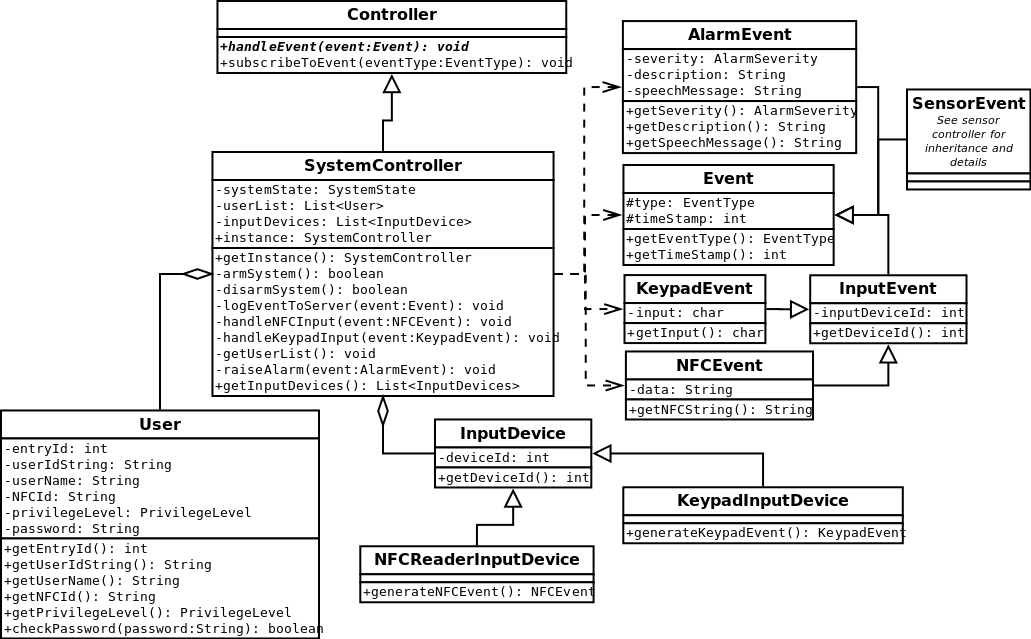
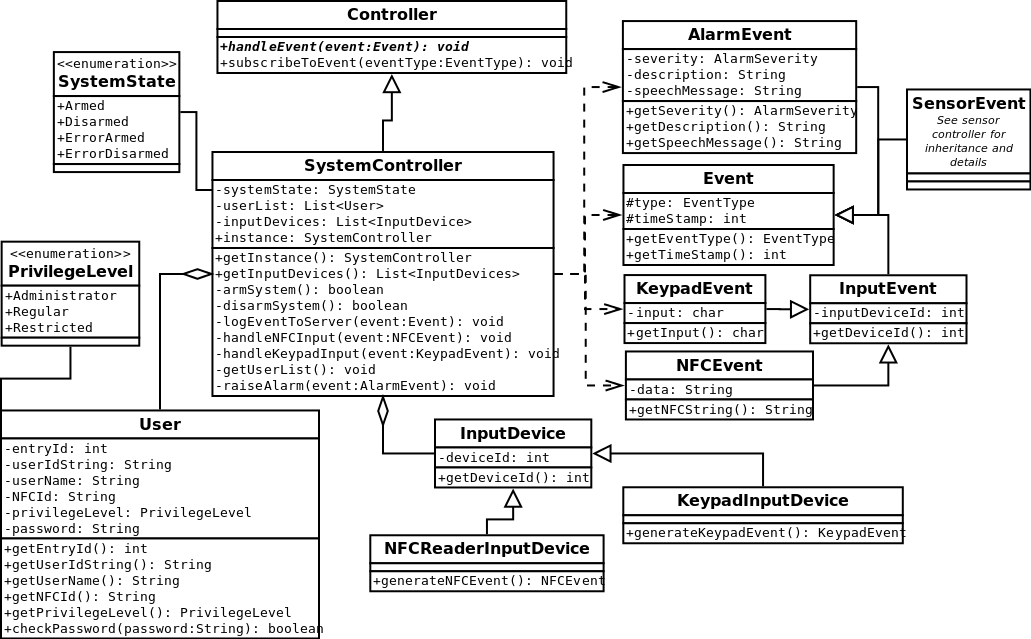
more object model blurbs

diff --git a/sdd/sdd.tex b/sdd/sdd.tex
@@ -360,14 +360,14 @@ instantated as singletons. Each controller is derived from the same super class
 that provides the abstract method for handling events and the
 implementation for subscribing to events with the event manager.
 
-The class diagram for the first controller, the SensorController, and the
-sensors are shown in Figure~\ref{fig:sensor_controller_class_diagram}. This
-diagram also describes the EventType enumeration which is omitted from the
-other diagrams for brevity The SensorController aggregates a list of sensors,
-which is fetched from the EventManager. This controller can explictely poll
-sensors, handle the sensor input data, and check the sensor statuses. It sends 
-events to the other controllers through the event manager after deciding how an
-event should be handled. 
+The class diagram for the first controller, the \texttt{SensorController}, and
+the sensors are shown in Figure~\ref{fig:sensor_controller_class_diagram}. This
+diagram also describes the \texttt{EventType} enumeration which is omitted from
+the other diagrams for brevity The \texttt{SensorController} aggregates a list
+of sensors, which is fetched from the \texttt{EventManager}. This controller can
+explictely poll sensors, handle the sensor input data, and check the sensor
+statuses. It sends events to the other controllers through the event manager
+after deciding how an event should be handled. 
 
 The sensor subsystem along with the associated sensor events are also described
 in Figure~\ref{fig:sensor_controller_class_diagram}. The methods that can be
@@ -376,11 +376,34 @@ will be eventually passed back to the controllers. Each sensor event has a
 sensor ID number associated with it as well as a specific door or window ID
 if it is from a door or a window sensor.
 
+The second controller, the \texttt{SystemController}, is described in the class
+diagram in Figure~\ref{fig:system_controller_class_diagram}. It contains all
+the methods required with handling inputs from the \texttt{KeypadInputDevice}
+and \texttt{NFCReaderInputDevice}. The definition of the class for
+\texttt{InputEvent} is included. System state is set and stored within this
+controller based on the inputs. Events are recieved from the event manager and
+the other controllers which are then sent to the external server and to the
+controllers if it is deemed appropriate. This controller also maintains a list
+of the user models which is uses to check for authorization rights to see what
+the user can do in terms of security actions.
+
+Figure~\ref{fig:alarm_controller_class_diagram} provides the class diagram for
+the \texttt{AlarmController} as well as the structure of the
+\texttt{AlarmDevice}. This controller handles the operation of the alarm output
+devices and the appropriate action for each alarm severity level. There are
+several different \texttt{AlarmDevices} that are used for different levels of
+alarm severity and alarm causes. An interface is provided to be able to send
+external alarms through an HTTP based web interface.
+
+The communications stack class diagram is found in
+Figure~\ref{fig:communications_stack_class_diagram}. It represents the entire
+communications stack as a summation of three parts, the \texttt{EventManager},
+the \texttt{CommunicationsInterface}, and the \texttt{HardwareInterface}.
 \begin{landscape} 
 \floatstyle{plain}
 \restylefloat{figure}
 \begin{figure}[p]
-    \caption{SensorController and Sensor Class Diagram}
+    \caption{\texttt{SensorController} and \texttt{Sensor} Class Diagram}
     \label{fig:sensor_controller_class_diagram}
     \includegraphics[scale=0.5]{sensor_controller_class_diagram.png}
 \end{figure}
@@ -390,7 +413,7 @@ if it is from a door or a window sensor.
 \floatstyle{plain}
 \restylefloat{figure}
 \begin{figure}[p]
-    \caption{SystemController Class Diagram}
+    \caption{\texttt{SystemController} Class Diagram}
     \label{fig:system_controller_class_diagram}
     \includegraphics[scale=0.5]{system_controller_class_diagram.png}
 \end{figure}
@@ -400,7 +423,7 @@ if it is from a door or a window sensor.
 \floatstyle{plain}
 \restylefloat{figure}
 \begin{figure}[p]
-    \caption{AlarmController Class Diagram}
+    \caption{\texttt{AlarmController} Class Diagram}
     \label{fig:alarm_controller_class_diagram}
     \includegraphics[scale=0.5]{alarm_controller_class_diagram.png}
 \end{figure}
@@ -411,7 +434,7 @@ if it is from a door or a window sensor.
 \restylefloat{figure}
 \begin{figure}[p]
     \caption{Communications Stack Class Diagram}
-    \label{fig:communication_stack_class_diagram}
+    \label{fig:communications_stack_class_diagram}
     \includegraphics[scale=0.5]{communication_stack_class_diagram}
 \end{figure}
 %\end{landscape}
